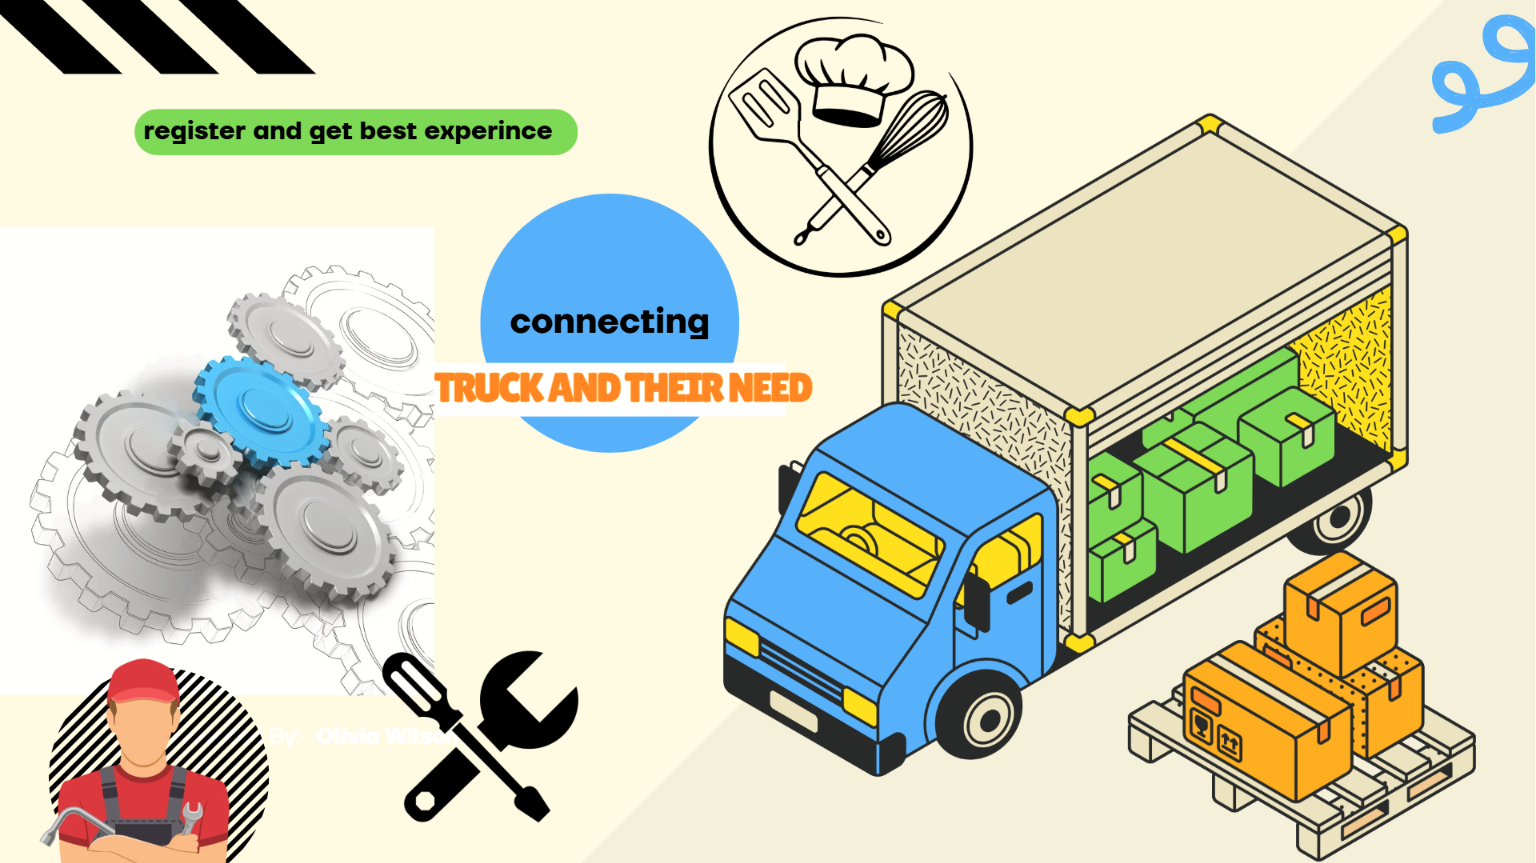
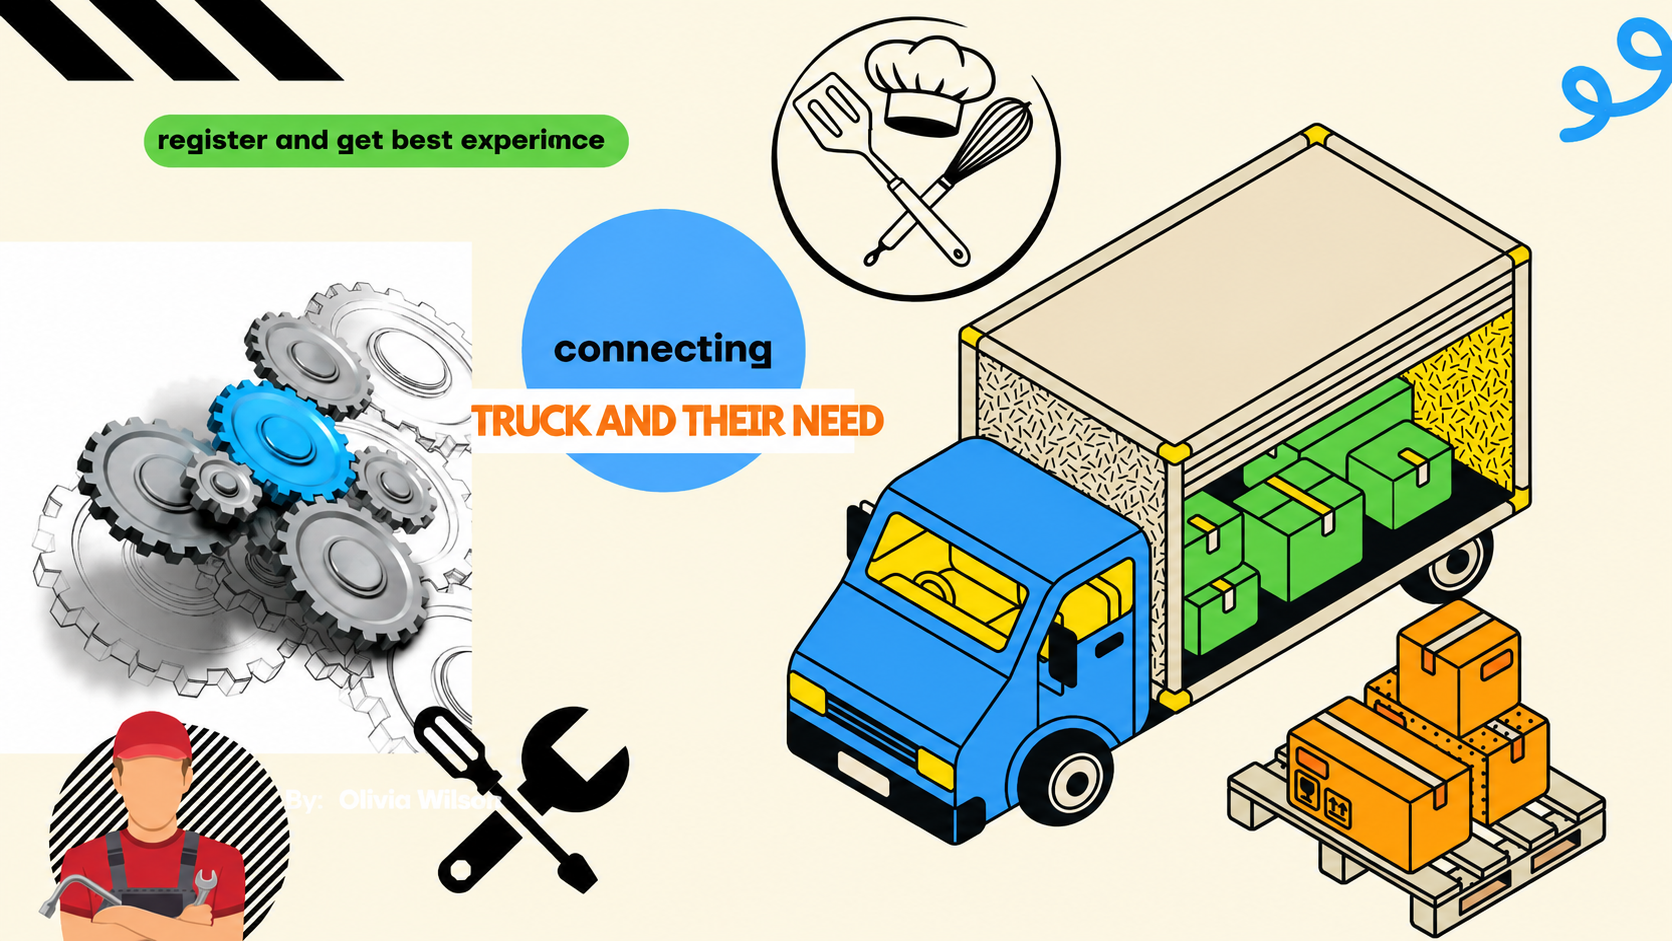
deleted the entire map section

diff --git a/src/components/map/map-sidebar.tsx b/src/components/map/map-sidebar.tsx
@@ -2,7 +2,7 @@ import { useState, useEffect } from "react";
 import { motion, AnimatePresence } from "motion/react";
 import { 
   Search, Filter, Navigation, ShieldAlert, X, 
-  MapPin, Clock, IndianRupee, ThermometerSun, CloudRain,
+  MapPin, Clock, IndianRupee,
   UtensilsCrossed, Wrench, Fuel, Car, Truck, LocateFixed
 } from "lucide-react";
 import { POICategory } from "@/lib/mock-data/pois";
@@ -19,51 +19,21 @@ interface MapSidebarProps {
   isRouting?: boolean;
   userLocation?: [number, number] | null;
   onRequestLocation?: () => void;
+  activeTab: 'search' | 'route';
+  setActiveTab: (tab: 'search' | 'route') => void;
+  startPoint: string;
+  setStartPoint: (val: string) => void;
+  endPoint: string;
+  setEndPoint: (val: string) => void;
 }
 
-export function MapSidebar({ onSearch, onSearchSubmit, onFilterChange, onRouteStart, onSOSClick, routeInfo, isRouting, userLocation, onRequestLocation }: MapSidebarProps) {
-  const [activeTab, setActiveTab] = useState<'search' | 'route' | 'weather'>('search');
+export function MapSidebar({ 
+  onSearch, onSearchSubmit, onFilterChange, onRouteStart, onSOSClick, routeInfo, isRouting, userLocation, onRequestLocation,
+  activeTab, setActiveTab, startPoint, setStartPoint, endPoint, setEndPoint
+}: MapSidebarProps) {
   const [activeFilters, setActiveFilters] = useState<POICategory[]>([]);
-  const [startPoint, setStartPoint] = useState("");
-  const [endPoint, setEndPoint] = useState("");
   
-  const [weatherData, setWeatherData] = useState<{
-    temperature: number;
-    description: string;
-    windSpeed: number;
-    visibility: number;
-  } | null>(null);
 
-  useEffect(() => {
-    // Default to Pune region if no userLocation provided yet
-    const lat = userLocation ? userLocation[0] : 18.7311;
-    const lon = userLocation ? userLocation[1] : 73.5023;
-    const url = `https://api.open-meteo.com/v1/forecast?latitude=${lat}&longitude=${lon}&current=temperature_2m,weather_code,wind_speed_10m,visibility`;
-    
-    fetch(url)
-      .then(res => res.json())
-      .then(data => {
-        if (data && data.current) {
-          const code = data.current.weather_code;
-          // Basic WMO weather code mapping
-          let desc = "Clear";
-          if (code >= 1 && code <= 3) desc = "Partly Cloudy";
-          if (code >= 45 && code <= 48) desc = "Foggy";
-          if (code >= 51 && code <= 67) desc = "Rainy";
-          if (code >= 71 && code <= 77) desc = "Snow";
-          if (code >= 80 && code <= 82) desc = "Rain Showers";
-          if (code >= 95) desc = "Thunderstorm";
-
-          setWeatherData({
-            temperature: data.current.temperature_2m,
-            description: desc,
-            windSpeed: data.current.wind_speed_10m,
-            visibility: data.current.visibility ? data.current.visibility / 1000 : 10, // Convert m to km
-          });
-        }
-      })
-      .catch(err => console.error("Weather fetch error:", err));
-  }, []);
 
   const toggleFilter = (category: POICategory) => {
     const newFilters = activeFilters.includes(category)
@@ -83,7 +53,7 @@ export function MapSidebar({ onSearch, onSearchSubmit, onFilterChange, onRouteSt
   ];
 
   return (
-    <div className="w-full md:w-96 bg-background/90 backdrop-blur-xl border-r dark:border-foreground/10 border-foreground h-[calc(100vh-4rem)] flex flex-col z-[1000] shadow-2xl shrink-0 overflow-y-auto hidden-scrollbar absolute md:relative top-0 left-0">
+    <div className="w-full md:w-96 bg-background/90 backdrop-blur-xl md:border-r border-b dark:border-foreground/10 border-foreground max-h-[50%] md:max-h-none md:h-full flex flex-col z-[1000] shadow-2xl shrink-0 relative">
       <div className="p-4 border-b dark:border-foreground/10 border-foreground flex gap-2">
         <button 
           onClick={() => setActiveTab('search')}
@@ -97,15 +67,10 @@ export function MapSidebar({ onSearch, onSearchSubmit, onFilterChange, onRouteSt
         >
           Route Planner
         </button>
-        <button 
-          onClick={() => setActiveTab('weather')}
-          className={`flex-1 py-2 text-sm font-medium rounded-lg transition-colors ${activeTab === 'weather' ? 'bg-orange/20 text-orange' : 'dark:text-foreground/60 text-foreground hover:text-white'}`}
-        >
-          Weather
-        </button>
+
       </div>
 
-      <div className="flex-1 overflow-y-auto p-4 space-y-6">
+      <div className={`flex-1 overflow-y-auto ${(activeTab === 'search' || (activeTab === 'route' && !routeInfo)) ? 'p-0 md:p-4' : 'p-4'} space-y-6`}>
         <AnimatePresence mode="wait">
           {activeTab === 'search' && (
             <motion.div
@@ -115,7 +80,7 @@ export function MapSidebar({ onSearch, onSearchSubmit, onFilterChange, onRouteSt
               exit={{ opacity: 0, x: 20 }}
               className="space-y-6"
             >
-              <div className="relative">
+              <div className="relative hidden md:block">
                 <Search className="absolute left-3 top-1/2 -translate-y-1/2 w-5 h-5 dark:text-foreground/40 text-foreground" />
                 <input 
                   type="text" 
@@ -130,31 +95,6 @@ export function MapSidebar({ onSearch, onSearchSubmit, onFilterChange, onRouteSt
                 />
               </div>
 
-              <div>
-                <h3 className="text-sm font-semibold dark:text-foreground/80 text-foreground mb-3 flex items-center gap-2">
-                  <Filter className="w-4 h-4" />
-                  Quick Filters
-                </h3>
-                <div className="grid grid-cols-2 gap-2">
-                  {categories.map((cat) => {
-                    const isActive = activeFilters.includes(cat.id);
-                    return (
-                      <button
-                        key={cat.id}
-                        onClick={() => toggleFilter(cat.id)}
-                        className={`flex items-center gap-2 p-3 rounded-xl border text-sm font-medium transition-all ${
-                          isActive 
-                            ? 'bg-blue/20 border-blue/40 text-blue' 
-                            : 'bg-foreground/5 dark:border-foreground/5 border-foreground dark:text-foreground/70 text-foreground hover:bg-foreground/10 hover:dark:border-foreground/20 border-foreground'
-                        }`}
-                      >
-                        <cat.icon className="w-4 h-4" />
-                        {cat.label}
-                      </button>
-                    );
-                  })}
-                </div>
-              </div>
             </motion.div>
           )}
 
@@ -166,7 +106,7 @@ export function MapSidebar({ onSearch, onSearchSubmit, onFilterChange, onRouteSt
               exit={{ opacity: 0, x: 20 }}
               className="space-y-4"
             >
-              <div className="space-y-3 relative before:absolute before:inset-y-4 before:left-4 before:w-0.5 before:bg-foreground/10">
+              <div className="hidden md:block space-y-3 relative before:absolute before:inset-y-4 before:left-4 before:w-0.5 before:bg-foreground/10">
                 <div className="relative z-10 pl-10 pr-10">
                   <div className="absolute left-[13px] top-1/2 -translate-y-1/2 w-3 h-3 rounded-full bg-blue border-2 border-background" />
                   <input 
@@ -201,7 +141,7 @@ export function MapSidebar({ onSearch, onSearchSubmit, onFilterChange, onRouteSt
               <button 
                 onClick={() => onRouteStart(startPoint, endPoint)}
                 disabled={isRouting || !startPoint || !endPoint}
-                className="w-full py-3 bg-blue hover:bg-blue/90 text-white rounded-xl font-medium shadow-lg shadow-blue/20 transition-all flex items-center justify-center gap-2 disabled:opacity-70 disabled:cursor-not-allowed"
+                className="hidden md:flex w-full py-3 bg-blue hover:bg-blue/90 text-white rounded-xl font-medium shadow-lg shadow-blue/20 transition-all items-center justify-center gap-2 disabled:opacity-70 disabled:cursor-not-allowed"
               >
                 {isRouting ? (
                   <div className="w-5 h-5 border-2 border-white/30 border-t-white rounded-full animate-spin" />
@@ -250,43 +190,10 @@ export function MapSidebar({ onSearch, onSearchSubmit, onFilterChange, onRouteSt
             </motion.div>
           )}
 
-          {activeTab === 'weather' && (
-            <motion.div
-              key="weather"
-              initial={{ opacity: 0, x: -20 }}
-              animate={{ opacity: 1, x: 0 }}
-              exit={{ opacity: 0, x: 20 }}
-              className="space-y-4"
-            >
-              <div className="p-4 rounded-xl bg-gradient-to-br from-orange/20 to-orange/5 border border-orange/20">
-                {weatherData ? (
-                  <>
-                    <div className="flex items-center gap-3 mb-4">
-                      <ThermometerSun className="w-8 h-8 text-orange" />
-                      <div>
-                        <div className="text-2xl font-bold text-foreground">{weatherData.temperature}°C</div>
-                        <div className="text-sm text-orange-700 dark:text-orange-200">
-                          {weatherData.description}
-                        </div>
-                      </div>
-                    </div>
-                    <div className="grid grid-cols-2 gap-2 text-sm text-foreground/90">
-                      <div className="p-2 rounded-lg bg-foreground/10">Vis: {weatherData.visibility.toFixed(1)} km</div>
-                      <div className="p-2 rounded-lg bg-foreground/10">Wind: {weatherData.windSpeed} km/h</div>
-                    </div>
-                  </>
-                ) : (
-                  <div className="text-sm text-foreground/70 p-4 text-center">
-                    Fetching real-time weather...
-                  </div>
-                )}
-              </div>
-            </motion.div>
-          )}
         </AnimatePresence>
       </div>
 
-      <div className="p-4 border-t dark:border-foreground/10 border-foreground">
+      <div className="hidden md:block p-4 border-t dark:border-foreground/10 border-foreground">
         <button 
           onClick={onSOSClick}
           className="w-full group relative overflow-hidden rounded-xl bg-red-600 px-4 py-4 font-bold text-white shadow-[0_0_20px_rgba(220,38,38,0.4)] transition-all hover:scale-[1.02] hover:shadow-[0_0_30px_rgba(220,38,38,0.6)]"

diff --git a/src/components/map/live-map.tsx b/src/components/map/live-map.tsx
@@ -8,7 +8,7 @@ import { mockPOIs, POI, POICategory } from "@/lib/mock-data/pois";
 import { LatLngExpression, divIcon } from "leaflet";
 import { geocode, getRoute, RouteInfo } from "@/lib/services/routing";
 import { toast } from "sonner";
-import { LocateFixed } from "lucide-react";
+import { LocateFixed, Search } from "lucide-react";
 
 // A component to automatically zoom to fit the route bounds
 function MapBoundsUpdater({ route }: { route: LatLngExpression[] | null }) {
@@ -87,6 +87,10 @@ export function LiveMap() {
   const [isSOSOpen, setIsSOSOpen] = useState(false);
   const [userLocation, setUserLocation] = useState<[number, number] | null>(null);
   const [searchedLocation, setSearchedLocation] = useState<[number, number] | null>(null);
+  
+  const [activeTab, setActiveTab] = useState<'search' | 'route'>('search');
+  const [startPoint, setStartPoint] = useState("");
+  const [endPoint, setEndPoint] = useState("");
 
   const requestLocation = (): Promise<[number, number]> => {
     return new Promise((resolve, reject) => {
@@ -296,13 +300,82 @@ export function LiveMap() {
         routeInfo={routeInfo}
         userLocation={userLocation}
         onRequestLocation={requestLocation}
+        activeTab={activeTab}
+        setActiveTab={setActiveTab}
+        startPoint={startPoint}
+        setStartPoint={setStartPoint}
+        endPoint={endPoint}
+        setEndPoint={setEndPoint}
       />
 
       {/* SOS Modal */}
       <SOSModal isOpen={isSOSOpen} onClose={() => setIsSOSOpen(false)} />
 
       {/* Leaflet Map */}
-      <div className="flex-1 relative z-0 h-full">
+      <div className="flex-1 relative z-0 min-h-0 md:min-h-[auto] md:h-full">
+        {/* Mobile Overlays (Search or Route Planner) */}
+        <div className="absolute top-4 left-16 right-4 z-[1000] md:hidden">
+          {activeTab === 'search' ? (
+            <div className="relative shadow-lg rounded-xl overflow-hidden bg-background/95 backdrop-blur">
+              <Search className="absolute left-3 top-1/2 -translate-y-1/2 w-5 h-5 dark:text-foreground/40 text-foreground" />
+              <input 
+                type="text" 
+                placeholder="Search dhabas, mechanics..." 
+                onChange={(e) => handleSearch(e.target.value)}
+                onKeyDown={(e) => {
+                  if (e.key === 'Enter') {
+                    handleSearchSubmit(e.currentTarget.value);
+                  }
+                }}
+                className="w-full bg-transparent border dark:border-foreground/10 border-foreground rounded-xl py-3 pl-10 pr-4 text-foreground focus:ring-2 focus:ring-blue/50 outline-none"
+              />
+            </div>
+          ) : (
+            <div className="shadow-lg rounded-xl overflow-hidden bg-background/95 backdrop-blur border dark:border-foreground/10 border-foreground p-3 space-y-2">
+              <div className="space-y-2 relative before:absolute before:inset-y-4 before:left-3 before:w-0.5 before:bg-foreground/10">
+                <div className="relative z-10 pl-8 pr-8">
+                  <div className="absolute left-[9px] top-1/2 -translate-y-1/2 w-3 h-3 rounded-full bg-blue border-2 border-background" />
+                  <input 
+                    type="text" 
+                    value={startPoint}
+                    onChange={(e) => setStartPoint(e.target.value)}
+                    placeholder="Starting point" 
+                    className="w-full bg-foreground/5 border dark:border-foreground/10 border-foreground rounded-lg py-2 px-3 text-foreground focus:ring-1 focus:ring-blue outline-none text-sm"
+                  />
+                  <button 
+                    onClick={() => {
+                      setStartPoint("Current Location");
+                      requestLocation();
+                    }}
+                    className="absolute right-2 top-1/2 -translate-y-1/2 p-1 text-blue hover:text-blue-600 transition-colors"
+                  >
+                    <LocateFixed className="w-4 h-4" />
+                  </button>
+                </div>
+                <div className="relative z-10 pl-8">
+                  <div className="absolute left-[9px] top-1/2 -translate-y-1/2 w-3 h-3 rounded-full bg-red-500 border-2 border-background" />
+                  <input 
+                    type="text" 
+                    value={endPoint}
+                    onChange={(e) => setEndPoint(e.target.value)}
+                    placeholder="Destination" 
+                    className="w-full bg-foreground/5 border dark:border-foreground/10 border-foreground rounded-lg py-2 px-3 text-foreground focus:ring-1 focus:ring-red-500 outline-none text-sm"
+                  />
+                </div>
+              </div>
+              <button 
+                onClick={() => handleRouteStart(startPoint, endPoint)}
+                disabled={isRouting || !startPoint || !endPoint}
+                className="w-full py-2 bg-blue hover:bg-blue/90 text-white rounded-lg font-medium shadow-md transition-all flex items-center justify-center gap-2 disabled:opacity-70 disabled:cursor-not-allowed text-sm"
+              >
+                {isRouting ? (
+                  <div className="w-4 h-4 border-2 border-white/30 border-t-white rounded-full animate-spin" />
+                ) : null}
+                {isRouting ? "Calculating..." : "Find Route"}
+              </button>
+            </div>
+          )}
+        </div>
         <MapContainer 
           center={center} 
           zoom={11} 

diff --git a/src/components/layout/global-search.tsx b/src/components/layout/global-search.tsx
@@ -23,8 +23,6 @@ export function GlobalSearch() {
   }, []);
 
   const results = [
-    { type: "Dhaba", name: "Sher-e-Punjab", icon: MapPin, route: "/map" },
-    { type: "Mechanic", name: "Sharma Auto Works", icon: Wrench, route: "/map" },
     { type: "Driver", name: "Rajesh Kumar", icon: User, route: "/dashboard/fleet" },
     { type: "Document", name: "RC Book (MH-12-AB-1234)", icon: FileText, route: "/dashboard/driver" },
   ];

diff --git a/src/components/layout/navbar.tsx b/src/components/layout/navbar.tsx
@@ -16,7 +16,6 @@ import { cn } from "@/lib/utils";
 import { GetStartedModal } from "@/components/auth/get-started-modal";
 
 const roles = [
-  { to: "/map", label: "Map", icon: MapPin, color: "text-blue" },
   { to: "/drivers", label: "Truck Drivers", icon: Truck, color: "text-blue" },
   { to: "/mechanics", label: "Mechanics", icon: Wrench, color: "text-purple" },
   {